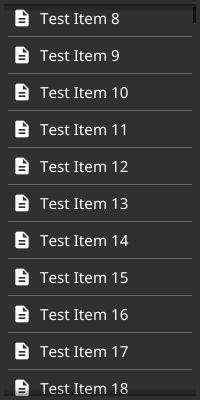
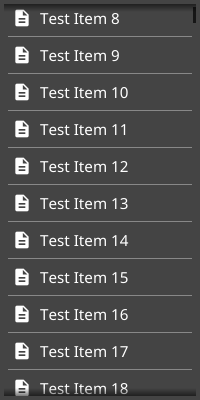
list tests use new test theme
They already did but now it is ensured by using a fresh test app for visual tests.

Changed region(s): [[0.09, 0.96, 0.15, 0.99]]

diff --git a/widget/list_test.go b/widget/list_test.go
@@ -11,6 +11,7 @@ import (
 	"fyne.io/fyne/layout"
 	"fyne.io/fyne/test"
 	"fyne.io/fyne/theme"
+
 	"github.com/stretchr/testify/assert"
 )
 
@@ -30,6 +31,9 @@ func TestNewList(t *testing.T) {
 }
 
 func TestList_Resize(t *testing.T) {
+	test.NewApp()
+	defer test.NewApp()
+
 	list := createList(1000)
 	w := test.NewWindow(list)
 	w.Resize(fyne.NewSize(200, 400))
@@ -59,6 +63,9 @@ func TestList_Resize(t *testing.T) {
 }
 
 func TestList_OffsetChange(t *testing.T) {
+	test.NewApp()
+	defer test.NewApp()
+
 	list := createList(1000)
 	w := test.NewWindow(list)
 	w.Resize(fyne.NewSize(200, 400))
@@ -118,6 +125,9 @@ func TestList_Selection(t *testing.T) {
 }
 
 func TestList_DataChange(t *testing.T) {
+	test.NewApp()
+	defer test.NewApp()
+
 	list := createList(1000)
 	w := test.NewWindow(list)
 	w.Resize(fyne.NewSize(200, 400))
@@ -133,6 +143,9 @@ func TestList_DataChange(t *testing.T) {
 }
 
 func TestList_ThemeChange(t *testing.T) {
+	test.NewApp()
+	defer test.NewApp()
+
 	list := createList(1000)
 	w := test.NewWindow(list)
 	w.Resize(fyne.NewSize(200, 400))
@@ -147,6 +160,9 @@ func TestList_ThemeChange(t *testing.T) {
 }
 
 func TestList_SmallList(t *testing.T) {
+	test.NewApp()
+	defer test.NewApp()
+
 	var data []string
 	data = append(data, "Test Item 0")
 
@@ -177,6 +193,9 @@ func TestList_SmallList(t *testing.T) {
 }
 
 func TestList_ClearList(t *testing.T) {
+	test.NewApp()
+	defer test.NewApp()
+
 	list := createList(1000)
 	w := test.NewWindow(list)
 	w.Resize(fyne.NewSize(200, 400))
@@ -201,6 +220,9 @@ func TestList_ClearList(t *testing.T) {
 }
 
 func TestList_RemoveItem(t *testing.T) {
+	test.NewApp()
+	defer test.NewApp()
+
 	var data []string
 	data = append(data, "Test Item 0")
 	data = append(data, "Test Item 1")
